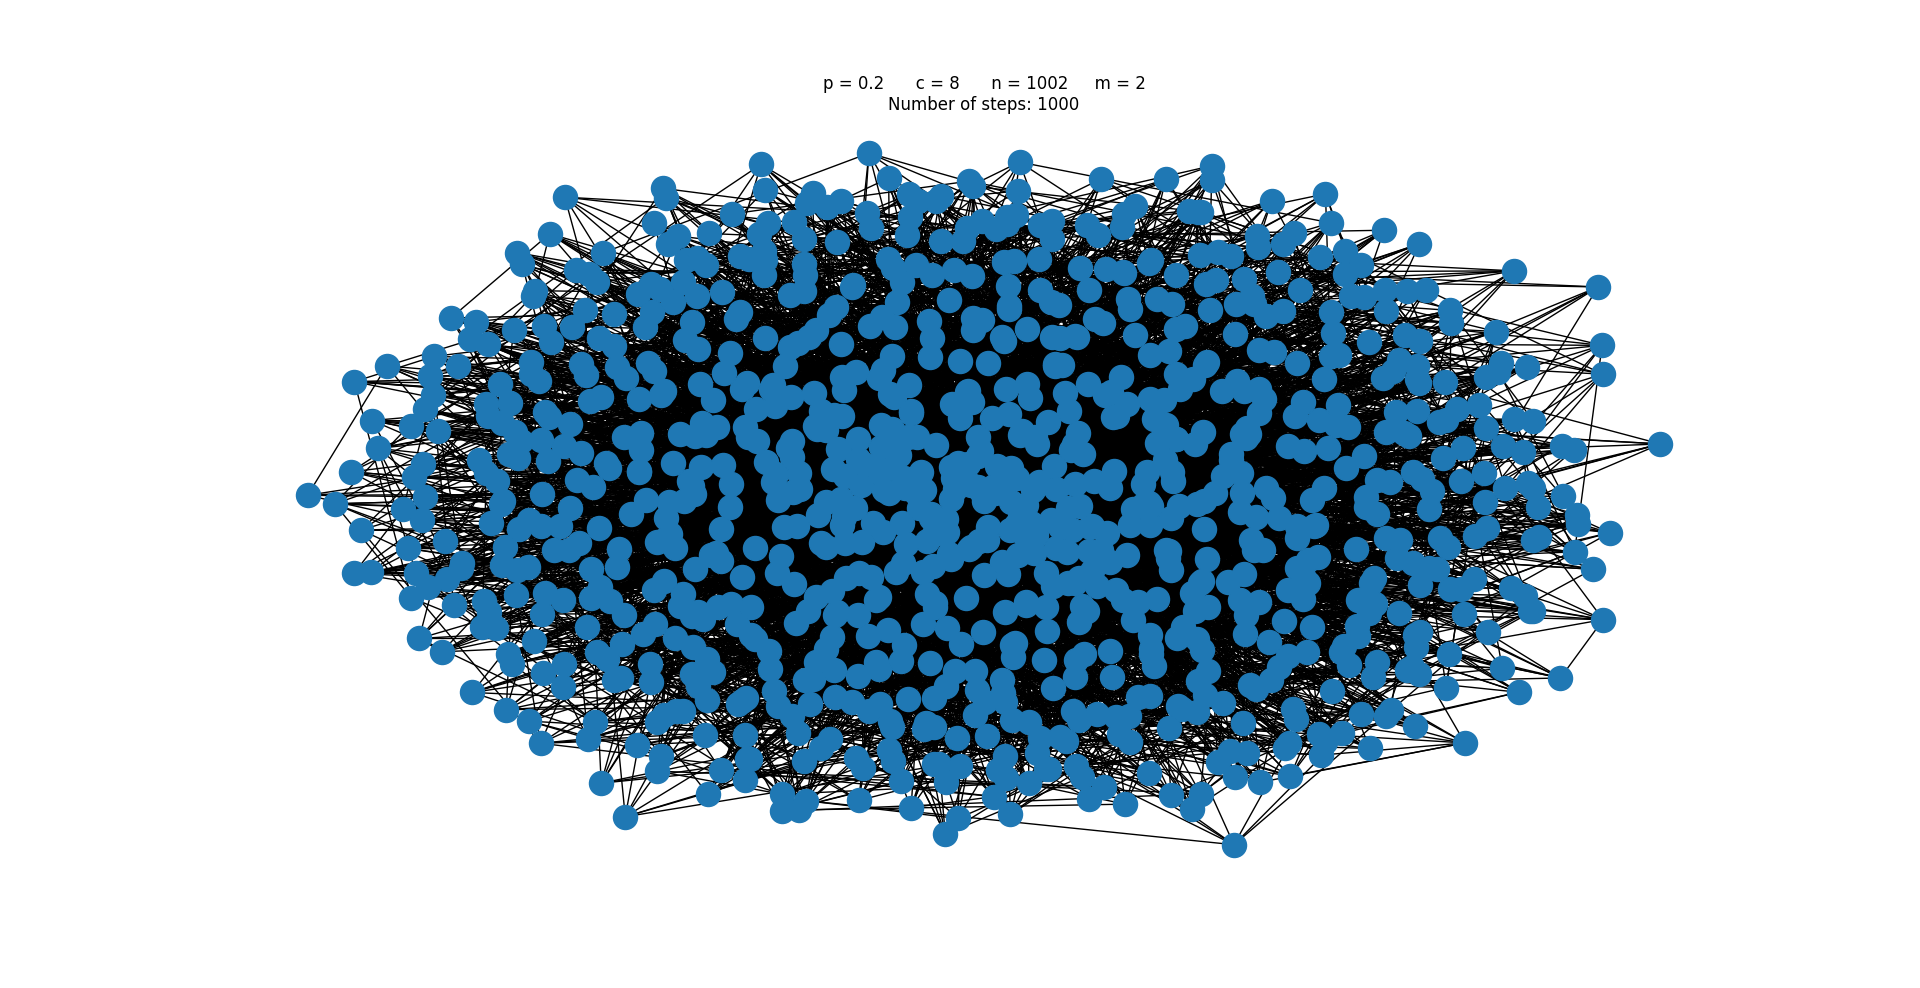
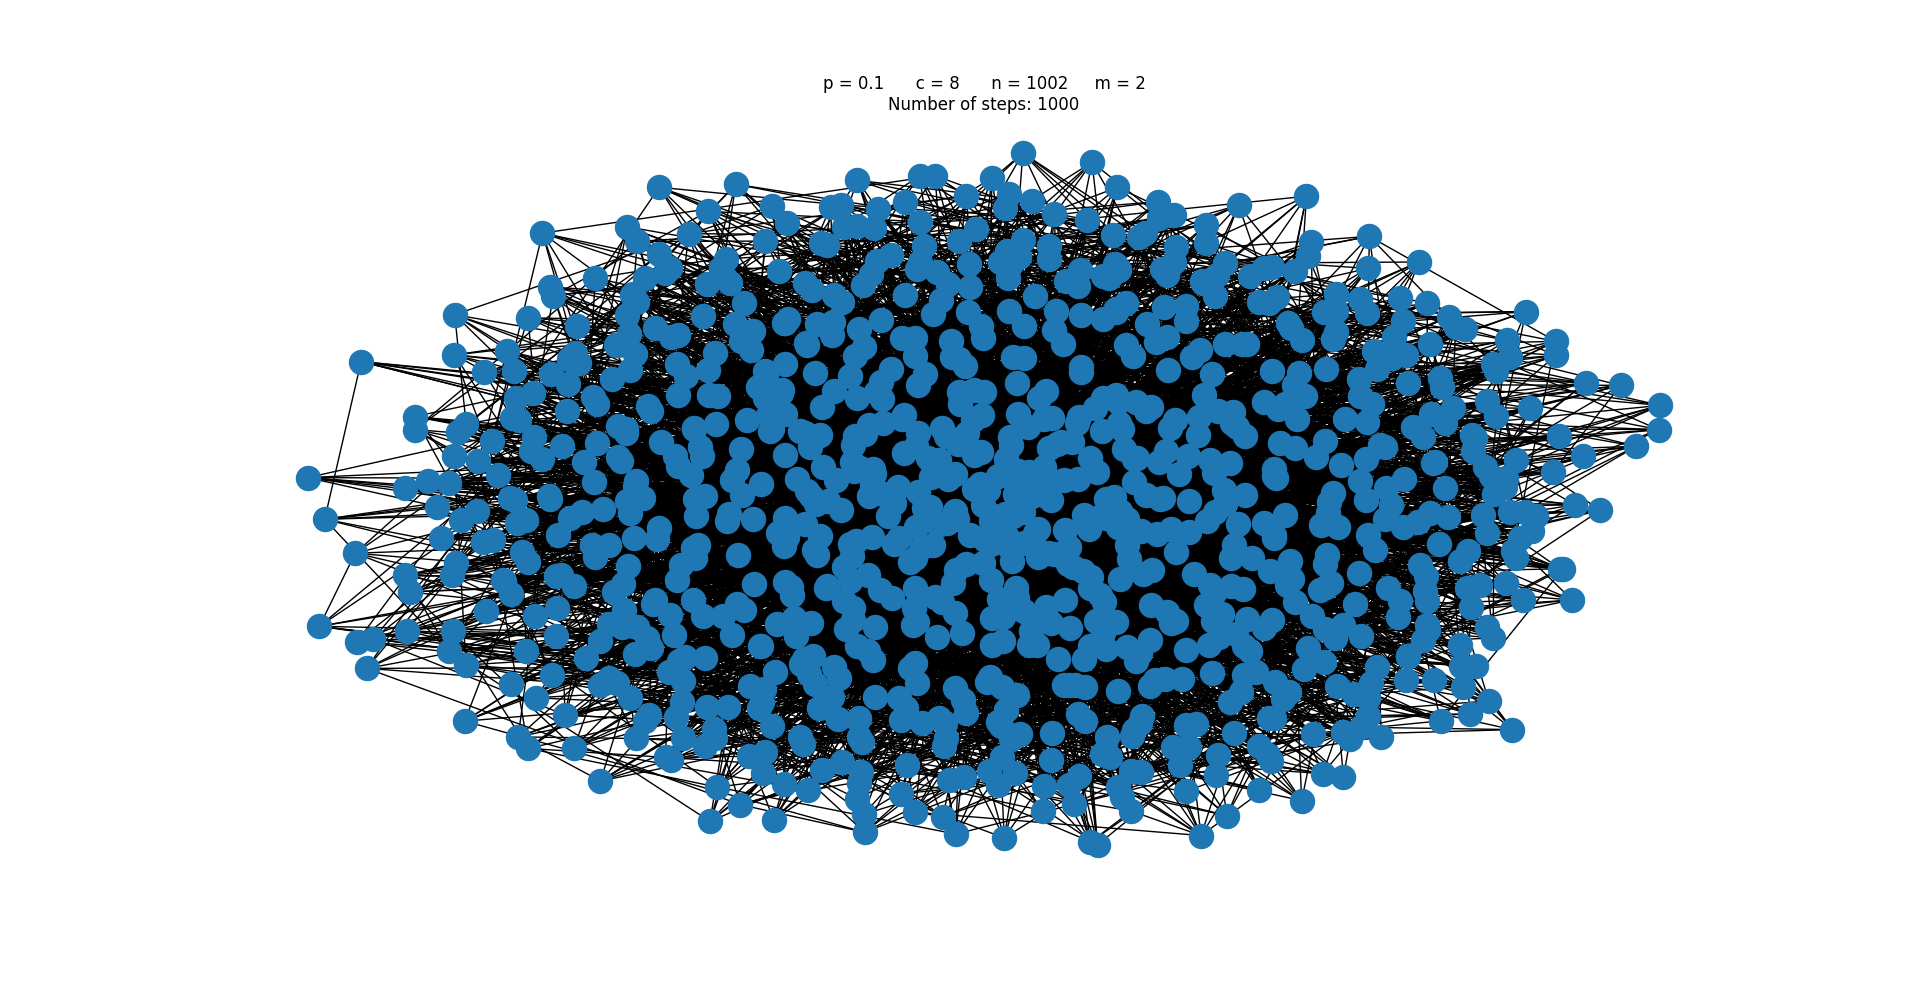
commit

Changed region(s): [[0.1562, 0.1215, 0.875, 0.8806]]

diff --git a/HW4/Network.py b/HW4/Network.py
@@ -115,7 +115,7 @@ class Network:
     def plot_cum_ddist(self):
         d_seq = [self.G.degree(n) for n in self.G.nodes()]
         k = np.linspace(0, max(d_seq),max(d_seq))
-        power_dist = 2 * self.c ** 2 * k ** (1 - (3 ** 2))
+        power_dist = 2 * (self.c ** 2) * k ** (1 - 3)
 
         degrees = np.array(d_seq)
         d_list = []
@@ -189,7 +189,7 @@ def task2():
     plt.show()
 
 def task3():
-    alberBasi = Network(n=2, p=0.2, c=8, nr_steps=1000)
+    alberBasi = Network(n=2, p=0.1, c=8, nr_steps=1000)
     alberBasi.add_edge(0, 1)
     alberBasi.step()
     alberBasi.build_graph()
@@ -218,6 +218,6 @@ def task5():
 if __name__ == "__main__":
     #task1()
     #task2()
-    #task3()
+    task3()
     #task4()
-    task5()
+    #task5()
